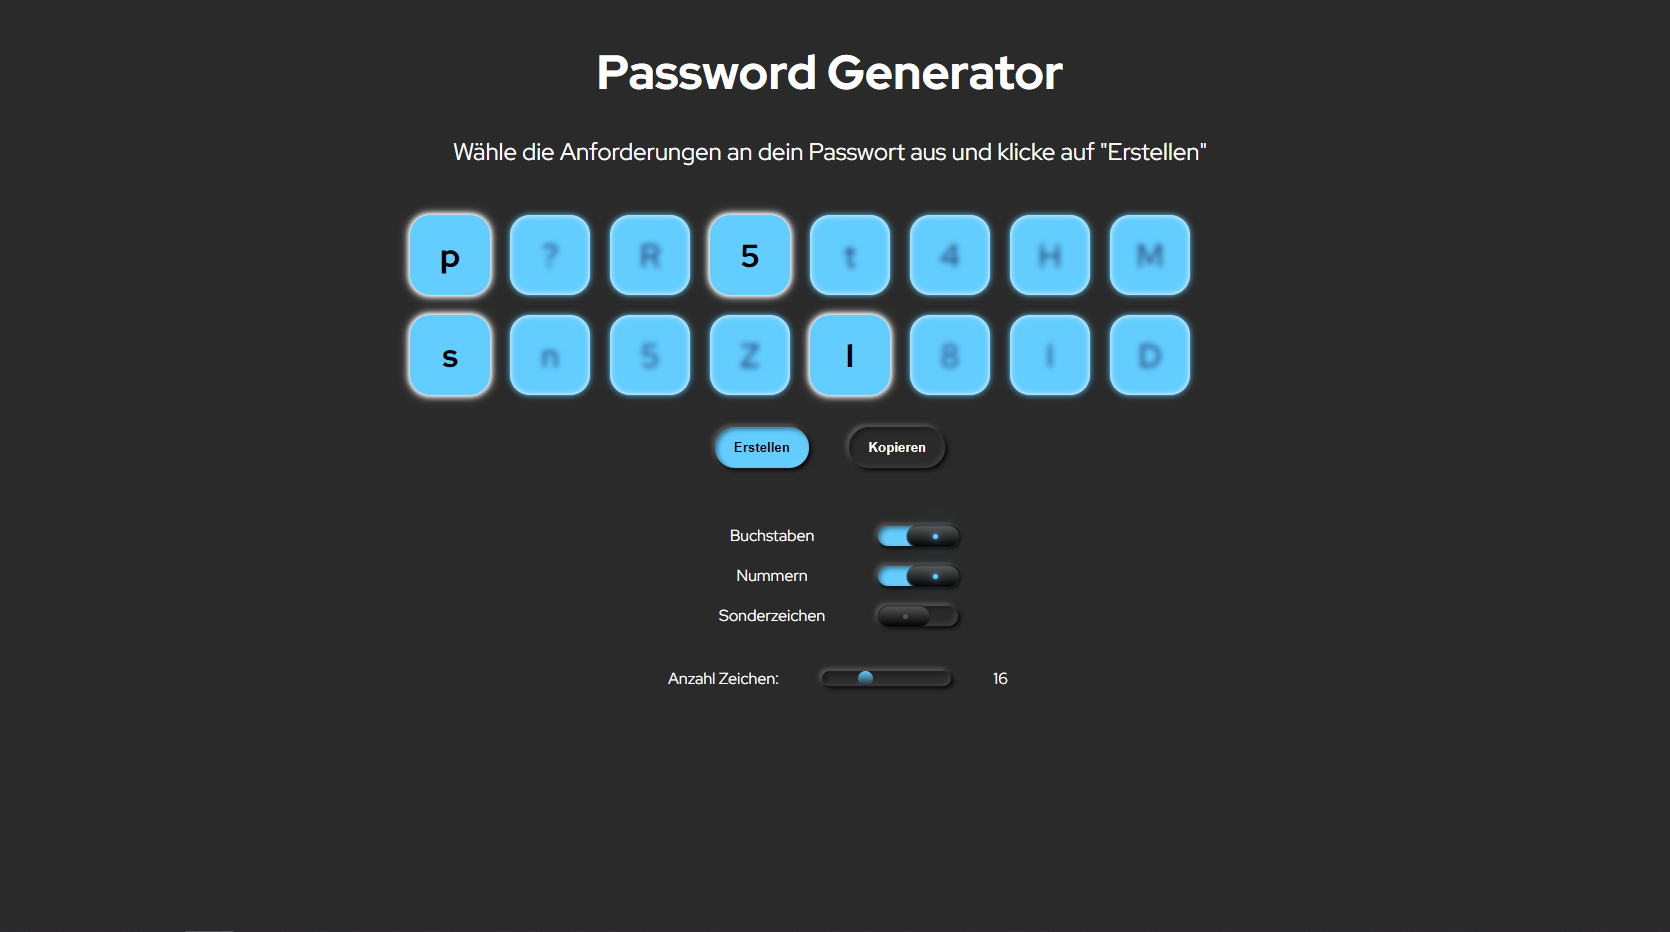
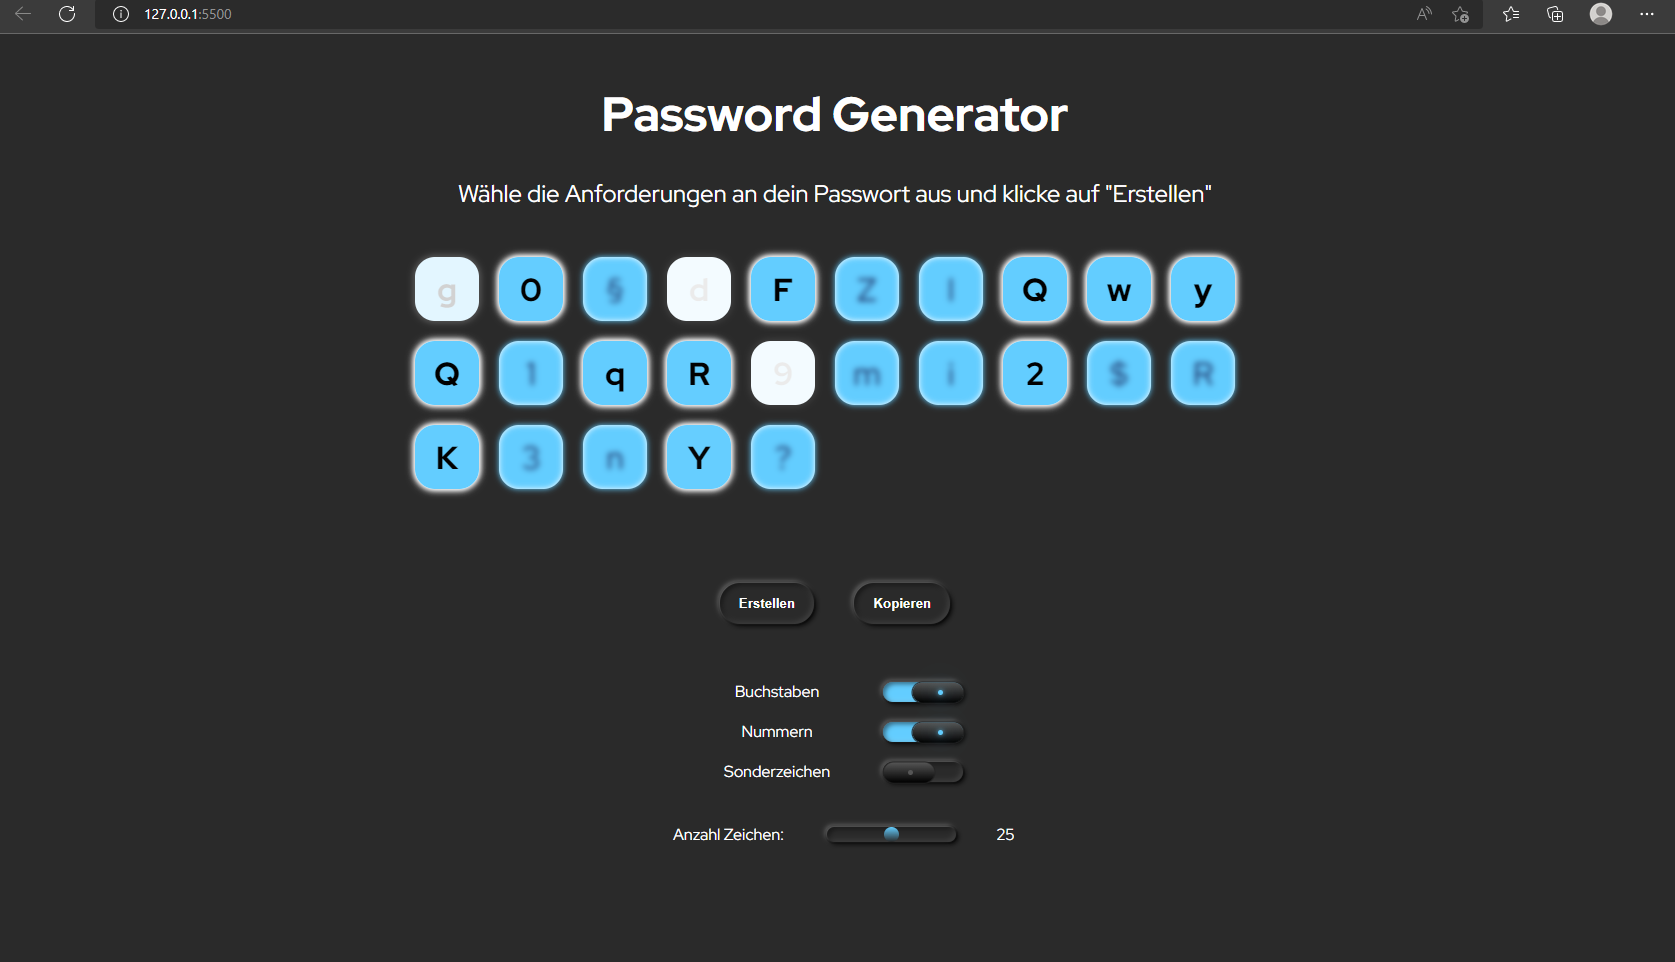
adding copy function

diff --git a/app.js b/app.js
@@ -1,23 +1,31 @@
 import Password from "/models/Password.js";
 import List from "/models/List.js";
 
-const btn = document.getElementById("generate_btn");
+const generateBtn = document.getElementById("generate_btn");
+const copyBtn = document.getElementById("copy_btn");
 const listElement = document.querySelector(".field");
 const length = document.querySelector(".length_slider");
 const lengthValue = document.getElementById("length_value");
+const passwordToCopy = document.getElementById("passwordCopy");
 
 let passwordLength = 25;
 
 function createPassword(length, letters, numbers, specials) {
+  passwordToCopy.style.opacity = "0";
+
   const string = new Password(length, letters, numbers, specials);
   const password = string.createPassword();
+  passwordToCopy.value = password;
   if (password === "") return;
 
   const list = new List(password, string, listElement, passwordLength);
   list.updateList();
+
   savePassword(password);
 
-  // TODO: Copy password to clipboard and adjust styling
+  setTimeout(() => {
+    passwordToCopy.style.opacity = "1";
+  }, 1500 + length * 100);
 }
 
 function savePassword(password) {
@@ -30,11 +38,18 @@ function savePassword(password) {
   }
 }
 
+function copyToClipBoard() {
+  passwordToCopy.select();
+  document.execCommand("copy");
+  alert("Passwort kopiert!");
+}
+
 length.onchange = function () {
   passwordLength = length.valueAsNumber;
   lengthValue.textContent = passwordLength;
 };
 
-btn.addEventListener("click", () => {
+generateBtn.addEventListener("click", () => {
   createPassword(passwordLength, letters, numbers, specials);
 });
+copyBtn.addEventListener("click", copyToClipBoard);

diff --git a/css/main.css b/css/main.css
@@ -38,8 +38,8 @@ main .password-generator .field {
   list-style: none;
 }
 main .password-generator .field .output {
-  width: 5rem;
-  height: 5rem;
+  width: 4rem;
+  height: 4rem;
   background: rgb(255, 255, 255);
   border-radius: 20px;
   font-size: 2em;
@@ -60,7 +60,7 @@ main .password-generator .field .output .output_valid {
   justify-content: center;
   align-items: center;
   border-radius: 20px;
-  /*      animation: appear 2s; */
+  animation: appear 2s;
 }
 main .password-generator .field .output .output_backdrop {
   position: relative;
@@ -85,6 +85,16 @@ main .password-generator .field .output .output_backdrop {
   100% {
     opacity: 1;
   }
+}
+main .password-generator #passwordCopy {
+  text-align: center;
+  margin-top: 2rem;
+  font-size: 1.5em;
+  background: transparent;
+  border: none;
+  color: white;
+  width: 30rem;
+  opacity: 0;
 }
 main .password-generator .btn_container {
   display: flex;

diff --git a/scss/main.scss b/scss/main.scss
@@ -42,8 +42,8 @@ main {
       list-style: none;
 
       .output {
-        width: 5rem;
-        height: 5rem;
+        width: 4rem;
+        height: 4rem;
         background: $primary-color-white;
         border-radius: 20px;
         font-size: $size-medium;
@@ -65,7 +65,7 @@ main {
           justify-content: center;
           align-items: center;
           border-radius: 20px;
-          /*      animation: appear 2s; */
+          animation: appear 2s;
         }
         .output_backdrop {
           position: relative;
@@ -93,6 +93,17 @@ main {
           }
         }
       }
+    }
+
+    #passwordCopy {
+      text-align: center;
+      margin-top: 2rem;
+      font-size: $size-small * 1.5;
+      background: transparent;
+      border: none;
+      color: white;
+      width: 30rem;
+      opacity: 0;
     }
 
     .btn_container {

diff --git a/index.html b/index.html
@@ -25,9 +25,10 @@
     <div class="password-generator">
       <ol class="field">
       </ol>
+      <input type="text" value="" id="passwordCopy" readonly>
       <div class="btn_container">
         <button class="btn" id="generate_btn">Erstellen</button>
-        <button class="btn" id="copy_btn" onclick=" () =>{navigator.clipboard.writeText(password)}">Kopieren</button>
+        <button class="btn" id="copy_btn">Kopieren</button>
       </div>
     </div>
 

diff --git a/models/List.js b/models/List.js
@@ -35,7 +35,6 @@ export default class List {
       divValid.style.display = "flex";
     };
     loop();
-
     return li;
   }
 

diff --git a/README.md b/README.md
@@ -7,3 +7,7 @@ A simple Password Generator with a little animation.
 After clicking button, the animation start. Waiting time set to 2s around
 
 ![](screenshots/pg-animation.PNG)
+
+When password generated, by clicking copy the password will be copied to clipboard
+
+![](screenshots/pg-copy.PNG)
